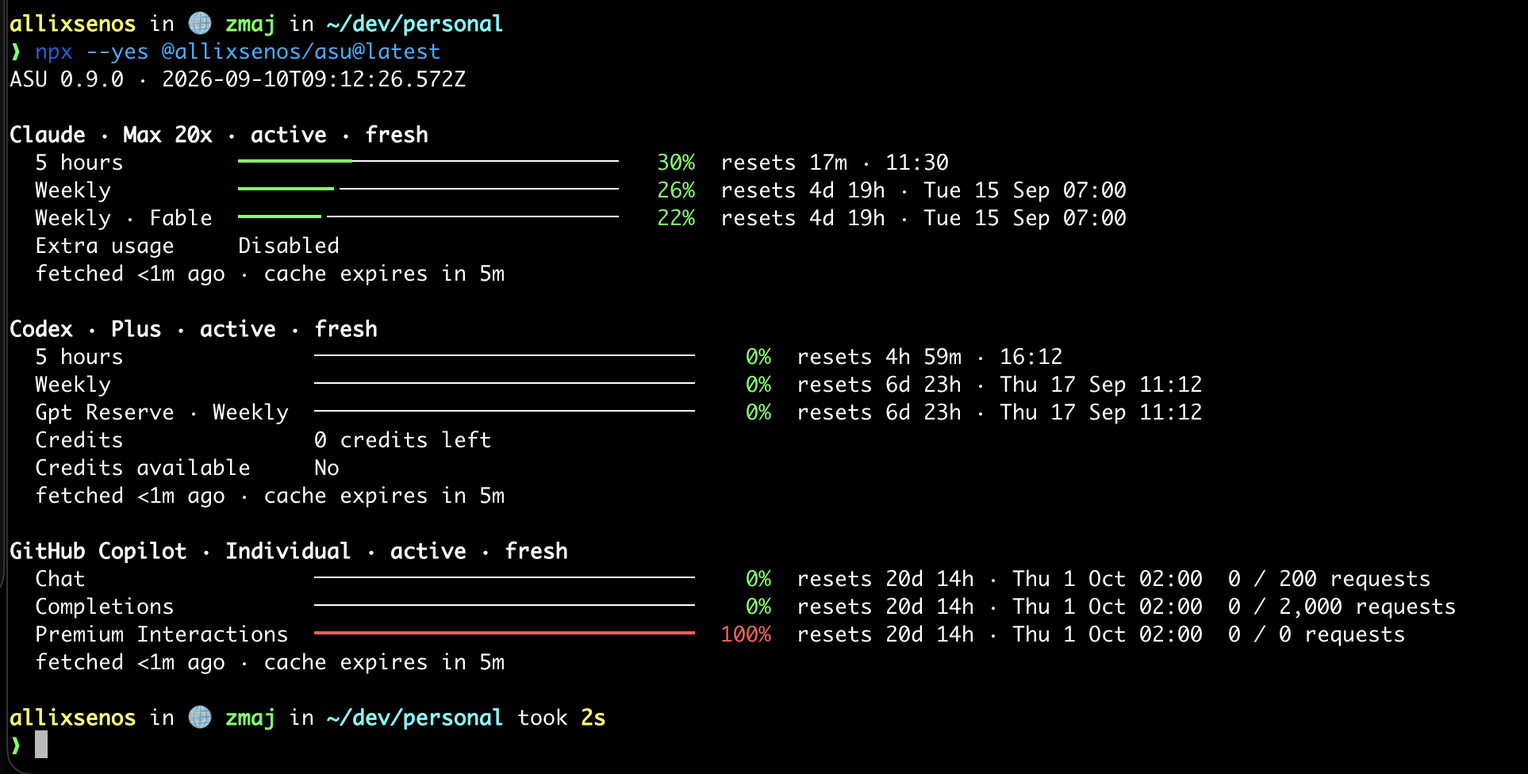
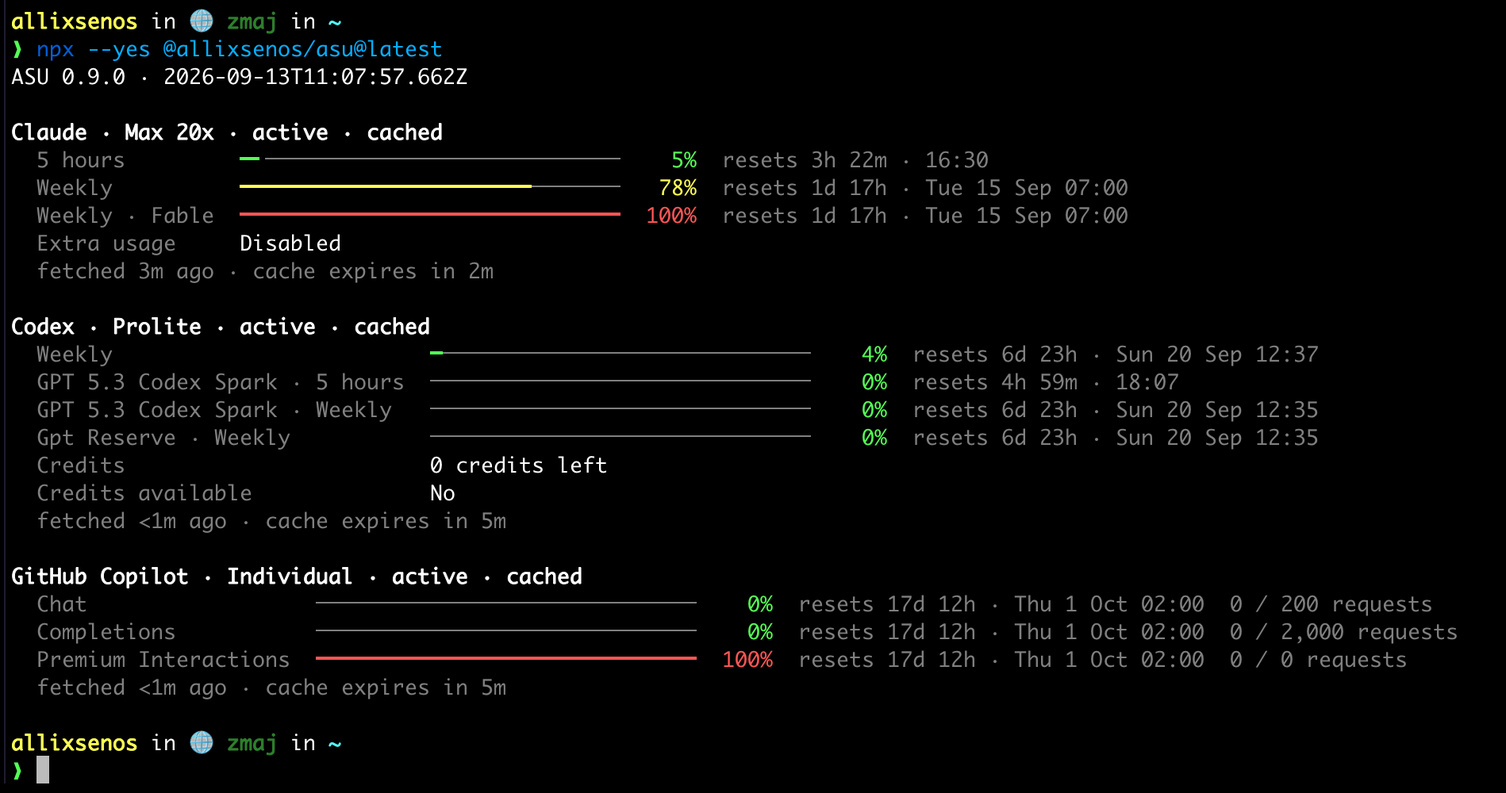
feat(cli): stack status and freshness under the provider name in the table (#39)
Move the status word and the freshness out of the plan column and stack
them under the provider name in the table view. Plain, bars, and JSON do
not change.

## Why

The plan column held the plan, the status, and `fresh` or `cached`. That
made each provider's first row three lines tall, and the window, usage,
and reset columns stayed blank beside the second and third lines.

## Decisions for the reviewer

1. **The provider cell flows down beside the rows.** The name, the
status, and the freshness sit on the same physical lines as the first
window rows, including the second line of a wrapped window label.
2. **The plan column holds only the plan**, and its header reads `Plan`.
3. **A short provider block still pads.** A provider with one row and
two name lines, such as Cursor without credentials, keeps one blank
line.
4. **Freshness shows only for an active provider**, as in the bars view.
An unavailable provider shows its name and status only.

## Before / after

Command: `asu claude codex copilot cursor --all --table`, Claude and
Cursor blocks.

Before, on `main`:

```text
│ Provider         │ Plan / status      │ Window / balance      │ Usage                 │ Resets in          │
├──────────────────┼────────────────────┼───────────────────────┼───────────────────────┼────────────────────┤
│ Claude           │ Max 20x            │ 5 hours               │ 3% used               │ 3h28m              │
[…]

diff --git a/src/output.ts b/src/output.ts
@@ -118,17 +118,22 @@ function buildTable(report: UsageReport, options: RenderOptions): { text: string
   }
   const border = (left: string, middle: string, right: string) => left + widths.map(w => '─'.repeat(w + 2)).join(middle) + right;
   const lines = [`ASU ${report.asuVersion} · ${report.generatedAt}`, border('┌', '┬', '┐')];
-  function row(cells: string[]) {
-    const wrappedCells = cells.map((cell, i) => wrap(cell, widths[i]!));
+  const fit = (cell: string, i: number) => {
+    const out = wrap(cell, widths[i]!);
     // Intentional line breaks inside a cell are not wrapping. Extra lines beyond them are.
-    if (wrappedCells.some((cell, i) => cell.length > cells[i]!.split('\n').length)) wrapped = true;
+    if (out.length > cell.split('\n').length) wrapped = true;
+    return out;
+  };
+  /** The physical lines of one logical row: every column wrapped, then padded to the tallest. */
+  function block(cells: string[]): string[][] {
+    const wrappedCells = cells.map(fit);
     const height = Math.max(...wrappedCells.map(cell => cell.length));
-    for (let line = 0; line < height; line++) lines.push('│ ' + wrappedCells.map((cell, i) => {
-      const value = cell[line] ?? '';
-      return value + ' '.repeat(widths[i]! - textWidth(value));
-    }).join(' │ ') + ' │');
+    return Array.from({ length: height }, (_, line) => wrappedCells.map(cell => cell[line] ?? ''));
   }
-  row(['Provider', 'Plan / status', 'Window / balance', 'Usage', options.utc ? 'Resets (UTC)' : 'Resets in']);
+  const emit = (grid: string[][]) => {
+    for (const cells of grid) lines.push('│ ' + cells.map((value, i) => value + ' '.repeat(widths[i]! - textWidth(value))).join(' │ ') + ' │');
+  };
+  emit(block(['Provider', 'Plan', 'Window / balance', 'Usage', options.utc ? 'Resets (UTC)' : 'Resets in']));
   for (const provider of report.providers) {
     lines.push(border('├', '┼', '┤'));
     const timeCell = (text: string) => text.replace(/^in /, '').replace(/^\w/, char => char.toUpperCase());
@@ -141,8 +146,13 @@ function buildTable(report: UsageReport, options: RenderOptions): { text: string
       : [detail.label, detail.value, '—']));
     if (provider.reason) rows.push(['Reason', provider.reason.code, '—']);
     if (!rows.length) rows.push(['—', '—', '—']);
-    rows.forEach((cells, index) => row([index ? '' : provider.displayName + (provider.experimental ? ' *' : ''),
-      index ? '' : [provider.planLabel, status(provider), provider.cached ? 'cached' : 'fresh'].filter(Boolean).join('\n'), ...cells]));
+    const grid = rows.flatMap((cells, index) => block(['', index ? '' : provider.planLabel ?? '', ...cells]));
+    // The provider cell flows down beside the rows instead of making the first row taller.
+    const freshness = provider.availability === 'available' ? (provider.cached ? 'cached' : 'fresh') : null;
+    const name = fit([provider.displayName + (provider.experimental ? ' *' : ''), status(provider), freshness].filter(Boolean).join('\n'), 0);
+    while (grid.length < name.length) grid.push(['', '', '', '', '']);
+    name.forEach((text, line) => { grid[line]![0] = text; });
+    emit(grid);
   }
   lines.push(border('└', '┴', '┘'));
   if (!report.providers.length) lines.push('No supported agents or credentials detected. Use --all to list every provider.');

diff --git a/dist/output.js b/dist/output.js
@@ -136,19 +136,24 @@ function buildTable(report, options) {
     }
     const border = (left, middle, right) => left + widths.map(w => '─'.repeat(w + 2)).join(middle) + right;
     const lines = [`ASU ${report.asuVersion} · ${report.generatedAt}`, border('┌', '┬', '┐')];
-    function row(cells) {
-        const wrappedCells = cells.map((cell, i) => wrap(cell, widths[i]));
+    const fit = (cell, i) => {
+        const out = wrap(cell, widths[i]);
         // Intentional line breaks inside a cell are not wrapping. Extra lines beyond them are.
-        if (wrappedCells.some((cell, i) => cell.length > cells[i].split('\n').length))
+        if (out.length > cell.split('\n').length)
             wrapped = true;
+        return out;
+    };
+    /** The physical lines of one logical row: every column wrapped, then padded to the tallest. */
+    function block(cells) {
+        const wrappedCells = cells.map(fit);
         const height = Math.max(...wrappedCells.map(cell => cell.length));
-        for (let line = 0; line < height; line++)
-            lines.push('│ ' + wrappedCells.map((cell, i) => {
-                const value = cell[line] ?? '';
-                return value + ' '.repeat(widths[i] - textWidth(value));
-            }).join(' │ ') + ' │');
+        return Array.from({ length: height }, (_, line) => wrappedCells.map(cell => cell[line] ?? ''));
     }
-    row(['Provider', 'Plan / status', 'Window / balance', 'Usage', options.utc ? 'Resets (UTC)' : 'Resets in']);
+    const emit = (grid) => {
+        for (const cells of grid)
+            lines.push('│ ' + cells.map((value, i) => value + ' '.repeat(widths[i] - textWidth(value))).join(' │ ') + ' │');
+    };
+    emit(block(['Provider', 'Plan', 'Window / balance', 'Usage', options.utc ? 'Resets (UTC)' : 'Resets in']));
     for (const provider of report.providers) {
         lines.push(border('├', '┼', '┤'));
         const timeCell = (text) => text.replace(/^in /, '').replace(/^\w/, char => char.toUpperCase());
@@ -163,8 +168,14 @@ function buildTable(report, options) {
             rows.push(['Reason', provider.reason.code, '—']);
         if (!rows.length)
             rows.push(['—', '—', '—']);
-        rows.forEach((cells, index) => row([index ? '' : provider.displayName + (provider.experimental ? ' *' : ''),
-            index ? '' : [provider.planLabel, status(provider), provider.cached ? 'cached' : 'fresh'].filter(Boolean).join('\n'), ...cells]));
+        const grid = rows.flatMap((cells, index) => block(['', index ? '' : provider.planLabel ?? '', ...cells]));
+        // The provider cell flows down beside the rows instead of making the first row taller.
+        const freshness = provider.availability === 'available' ? (provider.cached ? 'cached' : 'fresh') : null;
+        const name = fit([provider.displayName + (provider.experimental ? ' *' : ''), status(provider), freshness].filter(Boolean).join('\n'), 0);
+        while (grid.length < name.length)
+            grid.push(['', '', '', '', '']);
+        name.forEach((text, line) => { grid[line][0] = text; });
+        emit(grid);
     }
     lines.push(border('└', '┴', '┘'));
     if (!report.providers.length)

diff --git a/README.md b/README.md
@@ -10,9 +10,9 @@ ASU is a local TypeScript CLI for humans and agents. It finds supported installa
 npx --yes @allixsenos/asu@latest
 ```
 
-![Terminal running npx --yes @allixsenos/asu@latest. ASU 0.9.0 shows three providers with one bar per window. Claude, Max 20x, active: 5 hours 30 percent resets in 17 minutes, Weekly 26 percent and Weekly Fable 22 percent reset Tuesday 15 September 07:00. Codex, Plus, active: three windows at 0 percent, 0 credits left. GitHub Copilot, Individual, active: Chat and Completions at 0 percent, Premium Interactions at 100 percent in red, 0 of 0 requests. Green bars for low usage, red for exhausted.](https://raw.githubusercontent.com/allixsenos/asu/main/assets/asu-bars.png)
+![Terminal running npx --yes @allixsenos/asu@latest. ASU 0.9.0 shows three providers with one bar per window. Claude, Max 20x, active, cached: 5 hours 5 percent in green, resets in 3 hours 22 minutes at 16:30; Weekly 78 percent in yellow and Weekly Fable 100 percent in red, both reset Tuesday 15 September 07:00; extra usage disabled. Codex, Prolite, active, cached: Weekly 4 percent, resets Sunday 20 September 12:37; GPT 5.3 Codex Spark 5 hours, GPT 5.3 Codex Spark Weekly, and Gpt Reserve Weekly all at 0 percent; 0 credits left. GitHub Copilot, Individual, active, cached: Chat 0 of 200 requests and Completions 0 of 2,000 requests at 0 percent, Premium Interactions at 100 percent in red with 0 of 0 requests, all reset Thursday 1 October 02:00.](https://raw.githubusercontent.com/allixsenos/asu/main/assets/asu-bars.png)
 
-This is a real run against the maintainer's accounts on 2026-09-10. Bars are green below 70 percent, yellow from 70, and red from 90. Reset times are relative to the moment of the run, with the local clock after the dot. Pass `--table` for the table view, `--utc` for full timestamps, `--plain` for log-friendly text, or `--json` for agents and scripts. The same view as plain text is in the [snapshot section](#bars) below.
+This is a real run against the maintainer's accounts on 2026-09-13. Bars are green below 70 percent, yellow from 70, and red from 90. Reset times are relative to the moment of the run, with the local clock after the dot. Pass `--table` for the table view, `--utc` for full timestamps, `--plain` for log-friendly text, or `--json` for agents and scripts. The same view as plain text is in the [snapshot section](#bars) below.
 
 ## Quick start
 
@@ -53,45 +53,49 @@ This needs Git. The repository commits the built `dist/` directory, so the insta
 
 ## Real account output
 
-We fetched the snapshot below on **2026-09-10 at 07:08 UTC** from the maintainer's authenticated Claude, Codex, and GitHub Copilot accounts on Linux. These are real provider-reported figures, not fixtures or estimates. They become stale as usage changes.
+We fetched the snapshot below on **2026-09-13 at 11:10 UTC** from the maintainer's authenticated Claude, Codex, and GitHub Copilot accounts on Linux. These are real provider-reported figures, not fixtures or estimates. They become stale as usage changes.
 
-The capture used the local checkout:
+Each block below is the recorded output of one of these commands, run one after another from the local checkout:
 
 ```bash
-node dist/cli.js --provider claude,codex,copilot --fresh --no-cache --json
+node dist/cli.js claude codex copilot --fresh --json
+node dist/cli.js claude codex copilot --bars
+node dist/cli.js claude codex copilot --table
+node dist/cli.js claude codex copilot --plain
 ```
 
-ASU's own renderers made the bars, the table, and the plain text below from that same JSON snapshot with `--utc`, so all four examples show identical data. The examples include no credentials and no account identifiers. All reset times are UTC.
+The first run fetched fresh figures. The other three ran inside the five-minute cache, so all four show the same figures and only the report timestamp differs. The output went to a file, so it has no colors. The examples include no credentials and no account identifiers.
 
-Without `--utc`, the table and the plain text show reset, fetch, and expiry times relative to now, for example `2h30m` or `45m`. A time a day or more away also names the local calendar day, for example `7d (Tue 15 Sep)`. A reset time that already passed shows as `now`. JSON always contains the full UTC timestamps.
+The bars, the table, and the plain text show reset, fetch, and expiry times relative to the moment of the run, for example `2h30m` or `45m`. A time a day or more away also names the calendar day, and the bars add the local clock time of the recording machine. A reset time that already passed shows as `now`. Pass `--utc` for full UTC timestamps. JSON always contains them.
 
 ### Bars
 
 Use `--bars` for this view. It is the default in an interactive terminal. One bar per window, colored by severity in a terminal, with the countdown and the local clock after each bar. The bar shrinks in a narrow terminal, then the clock goes, and below that the default falls back to plain text.
 
 ```text
-ASU 0.7.0 · 2026-09-10T07:08:14.046Z
+ASU 0.9.0 · 2026-09-13T11:10:44.216Z
 
-Claude · Max 20x · active · fresh
-  5 hours         ━━━━━─────────────────────────   18%  resets 2026-09-10T09:30:00.000Z
-  Weekly          ━━━━━━━───────────────────────   24%  resets 2026-09-15T05:00:00.000Z
-  Weekly · Fable  ━━━━━─────────────────────────   18%  resets 2026-09-15T05:00:00.000Z
+Claude · Max 20x · active · cached
+  5 hours         ━─────────────────────────    5%  resets 3h 19m · 16:30
+  Weekly          ━━━━━━━━━━━━━━━━━━━━──────   78%  resets 1d 17h · Tue 15 Sep 07:00
+  Weekly · Fable  ━━━━━━━━━━━━━━━━━━━━━━━━━━  100%  resets 1d 17h · Tue 15 Sep 07:00
   Extra usage     Disabled
-  fetched 2026-09-10T07:08:13.944Z · cache expires 2026-09-10T07:13:13.944Z
+  fetched <1m ago · cache expires in 5m
 
-Codex · Plus · active · fresh
-  5 hours               ──────────────────────────────    0%  resets 2026-09-10T12:08:13.000Z
-  Weekly                ──────────────────────────────    0%  resets 2026-09-17T07:08:13.000Z
-  Gpt Reserve · Weekly  ──────────────────────────────    0%  resets 2026-09-17T07:08:13.000Z
-  Credits               0 credits left
-  Credits available     No
-  fetched 2026-09-10T07:08:14.004Z · cache expires 2026-09-10T07:13:14.004Z
+Codex · Prolite · active · cached
+  Weekly                         ━─────────────────────────    4%  resets 6d 23h · Sun 20 Sep 12:37
+  GPT 5.3 Codex Spark · 5 hours  ──────────────────────────    0%  resets 4h 59m · 18:10
+  GPT 5.3 Codex Spark · Weekly   ──────────────────────────    0%  resets 6d 23h · Sun 20 Sep 12:35
+  Gpt Reserve · Weekly           ──────────────────────────    0%  resets 6d 23h · Sun 20 Sep 12:35
+  Credits                        0 credits left
+  Credits available              No
+  fetched <1m ago · cache expires in 5m
 
-GitHub Copilot · Individual · active · fresh
-  Chat                  ──────────────────────────────    0%  resets 2026-10-01T00:00:00.000Z  0 / 200 requests
-  Completions           ──────────────────────────────    0%  resets 2026-10-01T00:00:00.000Z  0 / 2,000 requests
-  Premium Interactions  ━━━━━━━━━━━━━━━━━━━━━━━━━━━━━━  100%  resets 2026-10-01T00:00:00.000Z  0 / 0 requests
-  fetched 2026-09-10T07:08:14.045Z · cache expires 2026-09-10T07:13:14.045Z
+GitHub Copilot · Individual · active · cached
+  Chat                  ──────────────────────────    0%  resets 17d 12h · Thu 1 Oct 02:00  0 / 200 requests
+  Completions           ──────────────────────────    0%  resets 17d 12h · Thu 1 Oct 02:00  0 / 2,000 requests
+  Premium Interactions  ━━━━━━━━━━━━━━━━━━━━━━━━━━  100%  resets 17d 12h · Thu 1 Oct 02:00  0 / 0 requests
+  fetched <1m ago · cache expires in 5m
 ```
 
 ### Pretty table
@@ -99,36 +103,34 @@ GitHub Copilot · Individual · active · fresh
 Use `--table` for this view. When a cell would wrap, the default falls back to plain text. Pass `--table` to force the table.
 
 ```text
-ASU 0.7.0 · 2026-09-10T07:08:14.046Z
+ASU 0.9.0 · 2026-09-13T11:10:44.391Z
 ┌──────────────────┬────────────────────┬───────────────────────┬───────────────────────┬────────────────────┐
-│ Provider         │ Plan / status      │ Window / balance      │ Usage                 │ Resets (UTC)       │
+│ Provider         │ Plan               │ Window / balance      │ Usage                 │ Resets in          │
 ├──────────────────┼────────────────────┼───────────────────────┼───────────────────────┼────────────────────┤
-│ Claude           │ Max 20x            │ 5 hours               │ 18% used              │ 2026-09-10 09:30   │
-│                  │ active             │                       │                       │                    │
-│                  │ fresh              │                       │                       │                    │
-│                  │                    │ Weekly                │ 24% used              │ 2026-09-15 05:00   │
-│                  │                    │ Weekly · Fable        │ 18% used              │ 2026-09-15 05:00   │
+│ Claude           │ Max 20x            │ 5 hours               │ 5% used               │ 3h19m              │
+│ active           │                    │ Weekly                │ 78% used              │ 1d17h (Tue 15 Sep) │
+│ cached           │                    │ Weekly · Fable        │ 100% used             │ 1d17h (Tue 15 Sep) │
 │                  │                    │ Extra usage           │ Disabled              │ —                  │
 ├──────────────────┼────────────────────┼───────────────────────┼───────────────────────┼────────────────────┤
-│ Codex            │ Plus               │ 5 hours               │ 0% used               │ 2026-09-10 12:08   │
-│                  │ active             │                       │                       │                    │
-│                  │ fresh              │                       │                       │                    │
-│                  │                    │ Weekly                │ 0% used               │ 2026-09-17 07:08   │
-│                  │                    │ Gpt Reserve · Weekly  │ 0% used               │ 2026-09-17 07:08   │
+│ Codex            │ Prolite            │ Weekly                │ 4% used               │ 6d23h (Sun 20 Sep) │
+│ active           │                    │ GPT 5.3 Codex Spark · │ 0% used               │ 5h                 │
+│ cached           │                    │  5 hours              │                       │                    │
+│                  │                    │ GPT 5.3 Codex Spark · │ 0% used               │ 6d23h (Sun 20 Sep) │
+│                  │                    │  Weekly               │                       │                    │
+│                  │                    │ Gpt Reserve · Weekly  │ 0% used               │ 6d23h (Sun 20 Sep) │
 │                  │                    │ Credits               │ 0 credits left        │ —                  │
 │                  │                    │ Credits available     │ No                    │ —                  │
 ├──────────────────┼────────────────────┼───────────────────────┼───────────────────────┼────────────────────┤
-│ GitHub Copilot   │ Individual         │ Chat                  │ 0% used               │ 2026-10-01 00:00   │
-│                  │ active             │                       │ 0 / 200 requests      │                    │
-│                  │ fresh              │                       │                       │                    │
-│                  │                    │ Completions           │ 0% used               │ 2026-10-01 00:00   │
+│ GitHub Copilot   │ Individual         │ Chat                  │ 0% used               │ 17d12h (Thu 1 Oct) │
+│ active           │                    │                       │ 0 / 200 requests      │                    │
+│ cached           │                    │ Completions           │ 0% used               │ 17d12h (Thu 1 Oct) │
 │                  │                    │                       │ 0 / 2,000 requests    │                    │
-│                  │                    │ Premium Interactions  │ 100% used             │ 2026-10-01 00:00   │
+│                  │                    │ Premium Interactions  │ 100% used             │ 17d12h (Thu 1 Oct) │
 │                  │                    │                       │ 0 / 0 requests        │                    │
 └──────────────────┴────────────────────┴───────────────────────┴───────────────────────┴────────────────────┘
-Claude: fetched 2026-09-10T07:08:13.944Z; cache expires 2026-09-10T07:13:13.944Z.
-Codex: fetched 2026-09-10T07:08:14.004Z; cache expires 2026-09-10T07:13:14.004Z.
-GitHub Copilot: fetched 2026-09-10T07:08:14.045Z; cache expires 2026-09-10T07:13:14.045Z.
+Claude: fetched <1m ago; cache expires in 5m.
+Codex: fetched <1m ago; cache expires in 5m.
+GitHub Copilot: fetched <1m ago; cache expires in 5m.
 ```
 
 Read Copilot's premium row with care. The endpoint returned zero entitlement, zero remaining requests, and zero percent remaining. ASU therefore shows `100% used` next to `0 / 0 requests`. This does **not** show that anyone consumed a premium request. The internal endpoint can return legacy quota information. Treat its quantities as the provider's reported snapshot, not as a complete billing statement.
@@ -141,34 +143,35 @@ Use `--plain` for readable output in logs and pipes. It is the default when stdo
 <summary>Show the complete plain-text output</summary>
 
 ```text
-ASU 0.7.0 · 2026-09-10T07:08:14.046Z
+ASU 0.9.0 · 2026-09-13T11:10:44.559Z
 
 Claude (claude)
   active
   Plan: Max 20x
-  5 hours: 18% used; resets 2026-09-10T09:30:00.000Z
-  Weekly: 24% used; resets 2026-09-15T05:00:00.000Z
-  Weekly · Fable: 18% used; resets 2026-09-15T05:00:00.000Z
+  5 hours: 5% used; resets in 3h19m
+  Weekly: 78% used; resets in 1d17h (Tue 15 Sep)
+  Weekly · Fable: 100% used; resets in 1d17h (Tue 15 Sep)
   Extra usage: Disabled
-  Fetched 2026-09-10T07:08:13.944Z; fresh; expires 2026-09-10T07:13:13.944Z
+  Fetched <1m ago; cached; expires in 5m
 
 Codex (codex)
   active
-  Plan: Plus
-  5 hours: 0% used; resets 2026-09-10T12:08:13.000Z
-  Weekly: 0% used; resets 2026-09-17T07:08:13.000Z
-  Gpt Reserve · Weekly: 0% used; resets 2026-09-17T07:08:13.000Z
+  Plan: Prolite
+  Weekly: 4% used; resets in 6d23h (Sun 20 Sep)
+  GPT 5.3 Codex Spark · 5 hours: 0% used; resets in 5h
+  GPT 5.3 Codex Spark · Weekly: 0% used; resets in 6d23h (Sun 20 Sep)
+  Gpt Reserve · Weekly: 0% used; resets in 6d23h (Sun 20 Sep)
   Credits: 0 credits left
   Credits available: No
-  Fetched 2026-09-10T07:08:14.004Z; fresh; expires 2026-09-10T07:13:14.004Z
+  Fetched <1m ago; cached; expires in 5m
 
 GitHub Copilot (copilot)
   active
   Plan: Individual
-  Chat: 0% used; 0 / 200 requests; resets 2026-10-01T00:00:00.000Z
-  Completions: 0% used; 0 / 2,000 requests; resets 2026-10-01T00:00:00.000Z
-  Premium Interactions: 100% used; 0 / 0 requests; resets 2026-10-01T00:00:00.000Z
-  Fetched 2026-09-10T07:08:14.045Z; fresh; expires 2026-09-10T07:13:14.045Z
+  Chat: 0% used; 0 / 200 requests; resets in 17d12h (Thu 1 Oct)
+  Completions: 0% used; 0 / 2,000 requests; resets in 17d12h (Thu 1 Oct)
+  Premium Interactions: 100% used; 0 / 0 requests; resets in 17d12h (Thu 1 Oct)
+  Fetched <1m ago; cached; expires in 5m
 ```
 
 </details>
@@ -183,8 +186,8 @@ Use `--json` for agents and scripts. Stdout contains the report. An ASU invocati
 ```json
 {
   "schemaVersion": 1,
-  "asuVersion": "0.7.0",
-  "generatedAt": "2026-09-10T07:08:14.046Z",
+  "asuVersion": "0.9.0",
+  "generatedAt": "2026-09-13T11:10:44.042Z",
   "warnings": [],
   "providers": [
     {
@@ -193,19 +196,19 @@ Use `--json` for agents and scripts. Stdout contains the report. An ASU invocati
         {
           "id": "five_hour",
           "label": "5 hours",
-          "percentUsed": 18,
-          "resetsAt": "2026-09-10T09:30:00.000Z"
+          "percentUsed": 5,
+          "resetsAt": "2026-09-13T14:30:01.000Z"
         },
         {
           "id": "seven_day",
           "label": "Weekly",
-          "percentUsed": 24,
-          "resetsAt": "2026-09-15T05:00:00.000Z"
+          "percentUsed": 78,
+          "resetsAt": "2026-09-15T05:00:01.000Z"
         },
         {
           "id": "weekly-model-fable",
           "label": "Weekly · Fable",
-          "percentUsed": 18,
+          "percentUsed": 100,
           "resetsAt": "2026-09-15T05:00:00.000Z",
           "scope": {
             "model": "Fable"
@@ -227,30 +230,36 @@ Use `--json` for agents and scripts. Stdout contains the report. An ASU invocati
       "authenticated": true,
       "availability": "available",
       "reason": null,
-      "fetchedAt": "2026-09-10T07:08:13.944Z",
-      "expiresAt": "2026-09-10T07:13:13.944Z",
+      "fetchedAt": "2026-09-13T11:10:43.895Z",
+      "expiresAt": "2026-09-13T11:15:43.895Z",
       "cached": false
     },
     {
-      "planLabel": "Plus",
+      "planLabel": "Prolite",
       "windows": [
         {
           "id": "usage-primary_window",
-          "label": "5 hours",
-          "percentUsed": 0,
-          "resetsAt": "2026-09-10T12:08:13.000Z"
-        },
-        {
-          "id": "usage-secondary_window",
           "label": "Weekly",
-          "percentUsed": 0,
-          "resetsAt": "2026-09-17T07:08:13.000Z"
+          "percentUsed": 4,
+          "resetsAt": "2026-09-20T10:37:55.000Z"
         },
         {
-          "id": "additional-0-gpt-reserve-primary_window",
+          "id": "additional-0-gpt-5-3-codex-spark-primary_window",
+          "label": "GPT 5.3 Codex Spark · 5 hours",
+          "percentUsed": 0,
+          "resetsAt": "2026-09-13T16:10:44.000Z"
+        },
+        {
+          "id": "additional-0-gpt-5-3-codex-spark-secondary_window",
+          "label": "GPT 5.3 Codex Spark · Weekly",
+          "percentUsed": 0,
+          "resetsAt": "2026-09-20T10:35:37.000Z"
+        },
+        {
+          "id": "additional-1-gpt-reserve-primary_window",
           "label": "Gpt Reserve · Weekly",
           "percentUsed": 0,
-          "resetsAt": "2026-09-17T07:08:13.000Z"
+          "resetsAt": "2026-09-20T10:35:37.000Z"
         }
       ],
       "balances": [
@@ -276,8 +285,8 @@ Use `--json` for agents and scripts. Stdout contains the report. An ASU invocati
       "authenticated": true,
       "availability": "available",
       "reason": null,
-      "fetchedAt": "2026-09-10T07:08:14.004Z",
-      "expiresAt": "2026-09-10T07:13:14.004Z",
+      "fetchedAt": "2026-09-13T11:10:44.041Z",
+      "expiresAt": "2026-09-13T11:15:44.041Z",
       "cached": false
     },
     {
@@ -324,8 +333,8 @@ Use `--json` for agents and scripts. Stdout contains the report. An ASU invocati
       "authenticated": true,
       "availability": "available",
       "reason": null,
-      "fetchedAt": "2026-09-10T07:08:14.045Z",
-      "expiresAt": "2026-09-10T07:13:14.045Z",
+      "fetchedAt": "2026-09-13T11:10:43.927Z",
+      "expiresAt": "2026-09-13T11:15:43.927Z",
       "cached": false
     }
   ]
